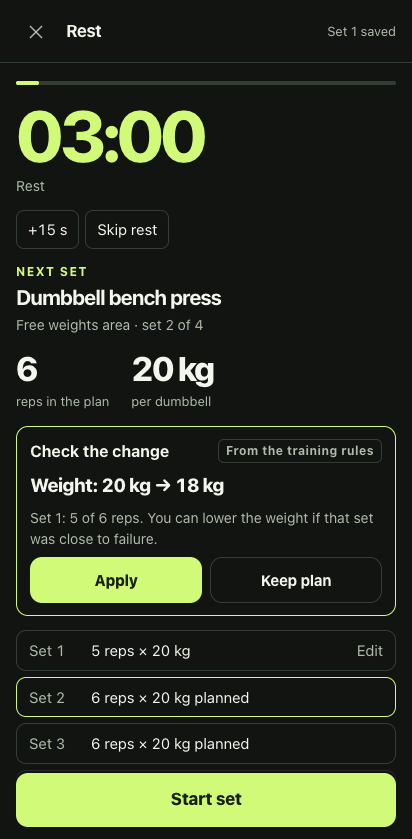
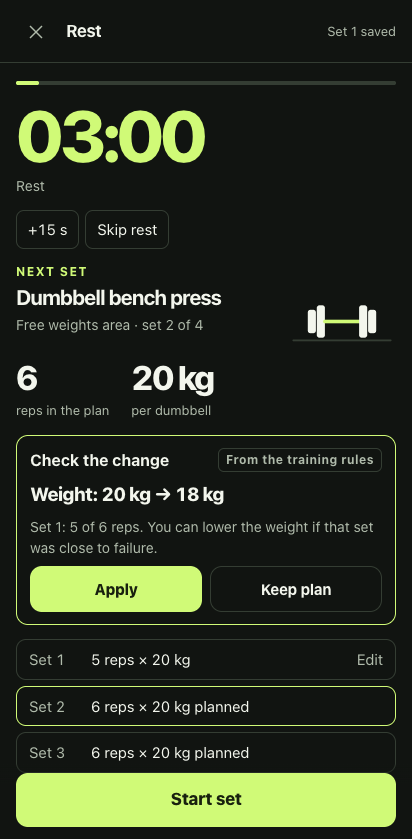
Keep the equipment sketch on the training screen at every step
It showed only when a new exercise first came up. It now sits beside the
exercise name before a set, during it, while the result is entered and
during the rest. The line saying what it shows stays with the first set.

diff --git a/report/report.html b/report/report.html
@@ -67,7 +67,7 @@ ol.steps { padding-left: 20px; display: flex; flex-direction: column; gap: 8px; 
     <h1>Seria<i>.</i> is built and tested</h1>
     <p class="lead">The design file is now a working app in English. It builds a training plan from a conversation, guides each set with a rest timer, keeps a history, and keeps the plan up to date as you train. It runs in the phone's browser and goes on the home screen. No developer mode, no app to install by hand. Both ways of running it are live.</p>
     <div class="nums">
-      <div><strong>180 / 180</strong><span>end-to-end checks passed</span></div>
+      <div><strong>184 / 184</strong><span>end-to-end checks passed</span></div>
       <div><strong>39 / 39</strong><span>unit tests passed</span></div>
       <div><strong>16 / 16</strong><span>checks passed on the live site</span></div>
       <div><strong>15 / 16</strong><span>spec items fully done</span></div>
@@ -184,10 +184,10 @@ ol.steps { padding-left: 20px; display: flex; flex-direction: column; gap: 8px; 
 
   <section>
     <p class="eyebrow">Smoke test</p>
-    <h2>180 of 180 end-to-end checks pass</h2>
-    <p class="muted">Run with <code>npm run smoke</code>. Real app, real Chrome (headless), phone-sized screen, no network and no real API key. Last run 2026-11-15 11:58 UTC.</p>
-    <div class="bar" role="img" aria-label="180 of 180 checks passed"><i style="width:100%"></i></div>
-    <details><summary>No Claude: 73 of 73</summary><p class="muted" style="margin-top:8px;font-size:14px">The built-in coach, the rule-based plan, a full workout with a reload in the middle, history, backup and restore.</p><ul><li><span class="tick">✓</span> opens on the empty plan</li><li><span class="tick">✓</span> main navigation is Plan, Coach, History, Equipment</li><li><span class="tick">✓</span> opening the coach saves nothing by itself</li><li><span class="tick">✓</span> coach status says Claude is not connected</li><li><span class="tick">✓</span> coach asks for what is missing (things to skip), and not for fixed days</li><li><span class="tick">✓</span> assumptions shown before the plan is built</li><li><span class="tick">✓</span> no plan exists until the user confirms</li><li><span class="tick">✓</span> the plan is a list of sessions with rest days, not tied to weekdays</li><li><span class="tick">✓</span> the coach presents it as a proposal you can discuss</li><li><span class="tick">✓</span> the plan reads as train, rest, train</li><li><span class="tick">✓</span> no cycles, weeks or weekdays to manage</li><li><span class="tick">✓</span> every session fits the 50 minute budget</li><li><span class="tick">✓</span> skipped lifts are left out</li><li><span class="tick">✓</span> plan records the rules version</li><li><span class="tick">✓</span> plan shows weekly sets per muscle group against the target</li><li><span class="tick">✓</span> each session on the list shows what it is, when it falls and how long it takes</li><li><span class="tick">✓</span> free text about the gym is read and saved in one go</li><li><span class="tick">✓</span> the result says what was added, turned off and not placed</li><li><span class="tick">✓</span> the text box is cleared once saved</li><li><span class="tick">✓</span> with no model connected, a named maker is noted on its machines</li><li><span class="tick">✓</span> added machines are listed as available</li><li><span class="tick">✓</span> free weights, bench and pull-up bar need no entry (on by default)</li><li><span class="tick">✓</span> equipment rows carry a sketch each</li><li><span class="tick">✓</span> lost equipment gives a swap with old value, new value and reason</li><li><span class="tick">✓</span> "Keep plan" leaves the plan alone</li><li><span class="tick">✓</span> day preview: order, equipment, sets, reps, rest, how to pick the weight, time parts</li><li><span class="tick">✓</span> each exercise in the preview has a sketch of its equipment</li><li><span class="tick">✓</span> workout has its own screen without the tab bar</li><li><span class="tick">✓</span> a new exercise starts with a sketch of what to look for</li><li><span class="tick">✓</span> no history: asks for a starting weight first</li><li><span class="tick">✓</span> starting weight is saved and shown per dumbbell</li><li><span class="tick">✓</span> "Start set" shows the active set</li><li><span class="tick">✓</span> "Finish set" opens the result with the planned value</li><li><span class="tick">✓</span> reps correct by ±1 and ±2</li><li><span class="tick">✓</span> reps can be typed directly</li><li><span class="tick">✓</span> saving starts the rest countdown at once</li><li><span class="tick">✓</span> countdown starts from the planned rest</li><li><span class="tick">✓</span> rule-based suggestion: change, reason, Apply / Keep plan</li><li><span class="tick">✓</span> reload restores the workout, the saved set and the time left</li><li><span class="tick">✓</span> +15 s extends the rest</li><li><span class="tick">✓</span> applying the suggestion changes only the sets still to come</li><li><span class="tick">✓</span> "Skip rest" goes straight to the next set</li><li><span class="tick">✓</span> weight can be changed in the result</li><li><span class="tick">✓</span> reps in reserve is optional and saved when given</li><li><span class="tick">✓</span> a wrong entry can be corrected during the workout</li><li><span class="tick">✓</span> after the last set the screen shows the next exercise</li><li><span class="tick">✓</span> a busy station can be swapped for another exercise on available equipment</li><li><span class="tick">✓</span> a set can be skipped</li><li><span class="tick">✓</span> summary: time, sets done of total, skipped sets, biggest differences</li><li><span class="tick">✓</span> session is stored set by set with plan and result</li><li><span class="tick">✓</span> weights chosen in the session are written into the plan</li><li><span class="tick">✓</span> after the session: proposals with change, reason and a choice</li><li><span class="tick">✓</span> "Apply" updates the plan and bumps its version</li><li><span class="tick">✓</span> the stored session keeps the plan it was done against</li><li><span class="tick">✓</span> history lists the workout</li><li><span class="tick">✓</span> a saved set can be corrected later from history</li><li><span class="tick">✓</span> the finished session is off the list; the next one is planned after the rest day</li><li><span class="tick">✓</span> "Train now" on an unplanned day shows what makes sense and why, before anything starts</li><li><span class="tick">✓</span> and how the rest of the plan follows</li><li><span class="tick">✓</span> any other session can be picked instead</li><li><span class="tick">✓</span> on the planned day the plan says "today"</li><li><span class="tick">✓</span> and "Train now" simply starts the next session</li><li><span class="tick">✓</span> a discarded workout leaves the plan as it was</li><li><span class="tick">✓</span> a session can be skipped; it leaves the list and waits for the next run</li><li><span class="tick">✓</span> and brought back</li><li><span class="tick">✓</span> after a long break the plan says so and offers a lighter session</li><li><span class="tick">✓</span> a hand-picked session starts, lighter today, and goes to the front of the plan</li><li><span class="tick">✓</span> session preview shows the recorded weight</li><li><span class="tick">✓</span> backup file holds plan and history and no API key</li><li><span class="tick">✓</span> erase clears plan and history</li><li><span class="tick">✓</span> restore brings them back</li><li><span class="tick">✓</span> rules library is readable in the app, with sources</li><li><span class="tick">✓</span> no script errors in part A</li></ul></details>
+    <h2>184 of 184 end-to-end checks pass</h2>
+    <p class="muted">Run with <code>npm run smoke</code>. Real app, real Chrome (headless), phone-sized screen, no network and no real API key. Last run 2026-11-15 12:16 UTC.</p>
+    <div class="bar" role="img" aria-label="184 of 184 checks passed"><i style="width:100%"></i></div>
+    <details><summary>No Claude: 77 of 77</summary><p class="muted" style="margin-top:8px;font-size:14px">The built-in coach, the rule-based plan, a full workout with a reload in the middle, history, backup and restore.</p><ul><li><span class="tick">✓</span> opens on the empty plan</li><li><span class="tick">✓</span> main navigation is Plan, Coach, History, Equipment</li><li><span class="tick">✓</span> opening the coach saves nothing by itself</li><li><span class="tick">✓</span> coach status says Claude is not connected</li><li><span class="tick">✓</span> coach asks for what is missing (things to skip), and not for fixed days</li><li><span class="tick">✓</span> assumptions shown before the plan is built</li><li><span class="tick">✓</span> no plan exists until the user confirms</li><li><span class="tick">✓</span> the plan is a list of sessions with rest days, not tied to weekdays</li><li><span class="tick">✓</span> the coach presents it as a proposal you can discuss</li><li><span class="tick">✓</span> the plan reads as train, rest, train</li><li><span class="tick">✓</span> no cycles, weeks or weekdays to manage</li><li><span class="tick">✓</span> every session fits the 50 minute budget</li><li><span class="tick">✓</span> skipped lifts are left out</li><li><span class="tick">✓</span> plan records the rules version</li><li><span class="tick">✓</span> plan shows weekly sets per muscle group against the target</li><li><span class="tick">✓</span> each session on the list shows what it is, when it falls and how long it takes</li><li><span class="tick">✓</span> free text about the gym is read and saved in one go</li><li><span class="tick">✓</span> the result says what was added, turned off and not placed</li><li><span class="tick">✓</span> the text box is cleared once saved</li><li><span class="tick">✓</span> with no model connected, a named maker is noted on its machines</li><li><span class="tick">✓</span> added machines are listed as available</li><li><span class="tick">✓</span> free weights, bench and pull-up bar need no entry (on by default)</li><li><span class="tick">✓</span> equipment rows carry a sketch each</li><li><span class="tick">✓</span> lost equipment gives a swap with old value, new value and reason</li><li><span class="tick">✓</span> "Keep plan" leaves the plan alone</li><li><span class="tick">✓</span> day preview: order, equipment, sets, reps, rest, how to pick the weight, time parts</li><li><span class="tick">✓</span> each exercise in the preview has a sketch of its equipment</li><li><span class="tick">✓</span> workout has its own screen without the tab bar</li><li><span class="tick">✓</span> a new exercise starts with a sketch of what to look for</li><li><span class="tick">✓</span> no history: asks for a starting weight first</li><li><span class="tick">✓</span> starting weight is saved and shown per dumbbell</li><li><span class="tick">✓</span> "Start set" shows the active set</li><li><span class="tick">✓</span> the sketch stays on the training screen during the set</li><li><span class="tick">✓</span> "Finish set" opens the result with the planned value</li><li><span class="tick">✓</span> and while the result is entered</li><li><span class="tick">✓</span> reps correct by ±1 and ±2</li><li><span class="tick">✓</span> reps can be typed directly</li><li><span class="tick">✓</span> saving starts the rest countdown at once</li><li><span class="tick">✓</span> and during the rest</li><li><span class="tick">✓</span> countdown starts from the planned rest</li><li><span class="tick">✓</span> rule-based suggestion: change, reason, Apply / Keep plan</li><li><span class="tick">✓</span> reload restores the workout, the saved set and the time left</li><li><span class="tick">✓</span> +15 s extends the rest</li><li><span class="tick">✓</span> applying the suggestion changes only the sets still to come</li><li><span class="tick">✓</span> "Skip rest" goes straight to the next set</li><li><span class="tick">✓</span> weight can be changed in the result</li><li><span class="tick">✓</span> reps in reserve is optional and saved when given</li><li><span class="tick">✓</span> a wrong entry can be corrected during the workout</li><li><span class="tick">✓</span> the next exercise comes with its own sketch</li><li><span class="tick">✓</span> after the last set the screen shows the next exercise</li><li><span class="tick">✓</span> a busy station can be swapped for another exercise on available equipment</li><li><span class="tick">✓</span> a set can be skipped</li><li><span class="tick">✓</span> summary: time, sets done of total, skipped sets, biggest differences</li><li><span class="tick">✓</span> session is stored set by set with plan and result</li><li><span class="tick">✓</span> weights chosen in the session are written into the plan</li><li><span class="tick">✓</span> after the session: proposals with change, reason and a choice</li><li><span class="tick">✓</span> "Apply" updates the plan and bumps its version</li><li><span class="tick">✓</span> the stored session keeps the plan it was done against</li><li><span class="tick">✓</span> history lists the workout</li><li><span class="tick">✓</span> a saved set can be corrected later from history</li><li><span class="tick">✓</span> the finished session is off the list; the next one is planned after the rest day</li><li><span class="tick">✓</span> "Train now" on an unplanned day shows what makes sense and why, before anything starts</li><li><span class="tick">✓</span> and how the rest of the plan follows</li><li><span class="tick">✓</span> any other session can be picked instead</li><li><span class="tick">✓</span> on the planned day the plan says "today"</li><li><span class="tick">✓</span> and "Train now" simply starts the next session</li><li><span class="tick">✓</span> a discarded workout leaves the plan as it was</li><li><span class="tick">✓</span> a session can be skipped; it leaves the list and waits for the next run</li><li><span class="tick">✓</span> and brought back</li><li><span class="tick">✓</span> after a long break the plan says so and offers a lighter session</li><li><span class="tick">✓</span> a hand-picked session starts, lighter today, and goes to the front of the plan</li><li><span class="tick">✓</span> session preview shows the recorded weight</li><li><span class="tick">✓</span> backup file holds plan and history and no API key</li><li><span class="tick">✓</span> erase clears plan and history</li><li><span class="tick">✓</span> restore brings them back</li><li><span class="tick">✓</span> rules library is readable in the app, with sources</li><li><span class="tick">✓</span> no script errors in part A</li></ul></details>
     <details><summary>Claude through the API: 49 of 49</summary><p class="muted" style="margin-top:8px;font-size:14px">The real Anthropic SDK in the browser, talking to a local stand-in for api.anthropic.com. Checks the request the app sends, late and failed answers, and a wrong key.</p><ul><li><span class="tick">✓</span> status shows Claude connected with the default model</li><li><span class="tick">✓</span> "Test the connection" gets an answer</li><li><span class="tick">✓</span> request: key, browser-access and version headers, as the official SDK sends them</li><li><span class="tick">✓</span> request: model, structured output, effort, cached system prompt</li><li><span class="tick">✓</span> request: refusal fallback is switched on</li><li><span class="tick">✓</span> request: no thinking or sampling parameters the model would reject</li><li><span class="tick">✓</span> request: system prompt carries the rules library and its version</li><li><span class="tick">✓</span> the key is kept apart from the app data</li><li><span class="tick">✓</span> an answer cut off for lack of room is asked for once more with twice as much</li><li><span class="tick">✓</span> a 429 from Claude is shown in Claude's own words</li><li><span class="tick">✓</span> Claude fills the profile; unknown exercise ids are dropped</li><li><span class="tick">✓</span> the reply is marked as coming from Claude</li><li><span class="tick">✓</span> plan built by Claude, cleaned against the catalog</li><li><span class="tick">✓</span> plan screen says who built it</li><li><span class="tick">✓</span> gym text goes to Claude with the equipment catalog</li><li><span class="tick">✓</span> Claude's reading is saved; made-up ids and movements are dropped</li><li><span class="tick">✓</span> the result is marked as read by Claude and lists what it could not place</li><li><span class="tick">✓</span> named machines are looked up with Claude's web search, and a paused search is carried on</li><li><span class="tick">✓</span> a machine found on the web is saved with how it works, what it isolates and its source</li><li><span class="tick">✓</span> a source address the search never returned is not accepted; that machine stays "from memory"</li><li><span class="tick">✓</span> nothing is saved for machines nobody named</li><li><span class="tick">✓</span> the result says which machines were identified and how sure that is</li><li><span class="tick">✓</span> the equipment list shows the exact machine and links to its page</li><li><span class="tick">✓</span> if the web search fails the machines are still saved, marked as not checked</li><li><span class="tick">✓</span> saving does not wait for Claude</li><li><span class="tick">✓</span> the rule-based suggestion is there first</li><li><span class="tick">✓</span> Claude's suggestion replaces it when it arrives in time</li><li><span class="tick">✓</span> "Keep plan" drops the suggestion</li><li><span class="tick">✓</span> a late suggestion about finished sets is not shown</li><li><span class="tick">✓</span> an on-target set does not call Claude</li><li><span class="tick">✓</span> the coach is told how each identified machine works and what it isolates</li><li><span class="tick">✓</span> with Claude failing, the workout carries on by the rules</li><li><span class="tick">✓</span> after the session Claude's review is shown with the app's own old value</li><li><span class="tick">✓</span> after a workout the order and rest days of what is left are updated without asking</li><li><span class="tick">✓</span> while the weight change still waits for a yes</li><li><span class="tick">✓</span> off the planned day, the rule-based pick shows at once</li><li><span class="tick">✓</span> Claude reviews what makes sense today, with the history and the app's pick in hand</li><li><span class="tick">✓</span> Claude's pick replaces it, with its reason</li><li><span class="tick">✓</span> the rule-based pick stays one tap away</li><li><span class="tick">✓</span> starting accepts Claude's update: its order and rest days, minus the session it made up</li><li><span class="tick">✓</span> a change Claude wants further on is filed as a proposal, not applied</li><li><span class="tick">✓</span> when the last session is done, Claude is asked for the next run with the results so far</li><li><span class="tick">✓</span> the next run replaces the list and the plan carries on</li><li><span class="tick">✓</span> and is on the plan screen, ready to browse</li><li><span class="tick">✓</span> asking the coach for a change gives a proposal to apply or keep</li><li><span class="tick">✓</span> applied from the chat</li><li><span class="tick">✓</span> a failing key gives a plain message and the built-in coach answers</li><li><span class="tick">✓</span> gym text still gets saved when Claude fails</li><li><span class="tick">✓</span> no script errors in part B</li></ul></details>
     <details><summary>Inside claude.ai: 14 of 14</summary><p class="muted" style="margin-top:8px;font-size:14px">A stand-in for the runtime claude.ai gives the page: cloud records, Claude, dictation. Includes moving to a fresh browser and getting everything back.</p><ul><li><span class="tick">✓</span> inside claude.ai: Claude is connected with no key</li><li><span class="tick">✓</span> inside claude.ai: data status says cloud</li><li><span class="tick">✓</span> voice lands in the text field, after what was typed</li><li><span class="tick">✓</span> the transcript can be edited before sending</li><li><span class="tick">✓</span> the viewer's Claude was used, uncached</li><li><span class="tick">✓</span> inside claude.ai machines are identified from memory and marked as not checked</li><li><span class="tick">✓</span> cloud copy: one private main record plus one record per workout</li><li><span class="tick">✓</span> machine details are part of the cloud copy</li><li><span class="tick">✓</span> cloud copy holds the plan and the saved set</li><li><span class="tick">✓</span> a fresh browser waits for the cloud copy before showing the app</li><li><span class="tick">✓</span> a fresh browser gets plan and workout back from the cloud</li><li><span class="tick">✓</span> and can carry on the same workout</li><li><span class="tick">✓</span> backup goes through the viewer save dialog</li><li><span class="tick">✓</span> no script errors in part C</li></ul></details>
     <details><summary>Home screen and offline: 10 of 10</summary><p class="muted" style="margin-top:8px;font-size:14px">The install files, the icons, and starting the app with the network switched off.</p><ul><li><span class="tick">✓</span> manifest: standalone display, name, start URL</li><li><span class="tick">✓</span> manifest: 192 and 512 icons plus a maskable one</li><li><span class="tick">✓</span> icons load at the declared sizes</li><li><span class="tick">✓</span> viewport and theme colour set for phones</li><li><span class="tick">✓</span> assumptions table: the label column stays under 40% of the width</li><li><span class="tick">✓</span> offline: the app starts and builds a plan with no network</li><li><span class="tick">✓</span> a plan saved by the earlier version is carried over: same sessions, now a list with rest days</li><li><span class="tick">✓</span> and it trains straight away</li><li><span class="tick">✓</span> no sideways scroll at phone width</li><li><span class="tick">✓</span> no script errors in part D</li></ul></details>

diff --git a/js/ui/workout.js b/js/ui/workout.js
@@ -9,7 +9,7 @@ import { fmtLoad, fmtLoadShort, num } from '../domain/planner.js';
 import { LOAD_TYPES, PROGRESSION } from '../domain/rules.js';
 import { substitutesFor, exerciseById, equipmentNames, zoneOf, machineForExercise, sketchForExercise } from '../domain/catalog.js';
 import { MachineInfo } from './equipment.js';
-import { Sketch, SketchFigure } from './sketch.js';
+import { Sketch, sketchNote } from './sketch.js';
 import { describeChange } from '../domain/progression.js';
 import { afterSetSaved, afterWorkout, rememberWeight } from '../ai/coach.js';
 import { sourceName } from '../ai/ai.js';
@@ -195,15 +195,19 @@ export function Workout() {
           <button class="chip" onClick=${() => put(S.skipRest(session))}>Skip rest</button>
         </div>`}
 
-      <div class="stack tight">
-        ${waiting && html`<p class="eyebrow">${firstOfExercise ? (c.done + c.skipped === 0 ? 'First exercise' : 'Next exercise') : 'Next set'}</p>`}
-        ${phase === 'log' && html`<p class="eyebrow">Set result</p>`}
-        ${phase === 'active' && html`<p class="eyebrow">Set in progress · ${clock(setElapsed)}</p>`}
-        <h3 data-testid="exercise-name">${ex.name}</h3>
-        <p class="muted small">${ex.zone} · set ${setIdx + 1} of ${ex.sets.length}${ex.swappedFrom ? ` · swapped in for ${ex.swappedFrom.name}` : ''}</p>
-        ${waiting && session.easePct > 0 && c.done + c.skipped === 0 && html`<p class="small muted" data-testid="eased">Loads are ${session.easePct}% lighter today to ease back in. The plan keeps its numbers.</p>`}
-        ${waiting && firstOfExercise && html`<p class="muted small">${ex.equipment} · ${ex.sets.length} sets · rest ${restText(ex.restSec)}</p>`}
+      <div class="spread" style="align-items:flex-start">
+        <div class="stack tight grow">
+          ${waiting && html`<p class="eyebrow">${firstOfExercise ? (c.done + c.skipped === 0 ? 'First exercise' : 'Next exercise') : 'Next set'}</p>`}
+          ${phase === 'log' && html`<p class="eyebrow">Set result</p>`}
+          ${phase === 'active' && html`<p class="eyebrow">Set in progress · ${clock(setElapsed)}</p>`}
+          <h3 data-testid="exercise-name">${ex.name}</h3>
+          <p class="muted small">${ex.zone} · set ${setIdx + 1} of ${ex.sets.length}${ex.swappedFrom ? ` · swapped in for ${ex.swappedFrom.name}` : ''}</p>
+          ${waiting && session.easePct > 0 && c.done + c.skipped === 0 && html`<p class="small muted" data-testid="eased">Loads are ${session.easePct}% lighter today to ease back in. The plan keeps its numbers.</p>`}
+          ${waiting && firstOfExercise && html`<p class="muted small">${ex.equipment} · ${ex.sets.length} sets · rest ${restText(ex.restSec)}</p>`}
+        </div>
+        ${look && html`<div data-testid="sketch"><${Sketch} medium id=${look.id} loading=${look.loading} /></div>`}
       </div>
+      ${waiting && firstOfExercise && look && html`<p class="small muted" data-testid="sketch-note">${sketchNote(look)}</p>`}
 
       ${phase !== 'log' && !(waiting && needW) && html`
         <div class="metrics">
@@ -212,7 +216,6 @@ export function Workout() {
             <small>${ex.loadType === 'bodyweight' ? (set.target.load ? 'added to bodyweight' : 'bodyweight') : LOAD_TYPES[ex.loadType].label}</small></div>
         </div>`}
 
-      ${waiting && firstOfExercise && html`<${SketchFigure} look=${look} />`}
       ${(waiting || phase === 'active') && machine && (machine.how || machine.isolates) && html`<${MachineInfo} d=${machine} />`}
 
       ${waiting && needW && html`<${WeightPicker} ex=${ex} reps=${set.target.reps} machine=${machine} value=${picked.value} step=${picked.step}

diff --git a/js/ui/sketch.js b/js/ui/sketch.js
@@ -124,26 +124,22 @@ function part(p, plates) {
 }
 
 /**
- * @param {{id: string, loading?: string, small?: boolean}} props id: a key of SKETCHES
+ * @param {{id: string, loading?: string, small?: boolean, medium?: boolean}} props id: a key of SKETCHES
  */
-export function Sketch({ id, loading, small }) {
+export function Sketch({ id, loading, small, medium }) {
   const sk = SKETCHES[id];
   if (!sk) return null;
   const plates = loading === 'plate_loaded';
   // A small one sits next to the name it illustrates, so it is decoration there; a big one stands alone and is labelled.
-  return html`<svg class=${`sketch${small ? ' small' : ''}`} viewBox="0 0 120 90" role=${small ? undefined : 'img'} aria-hidden=${small ? 'true' : undefined}
+  return html`<svg class=${`sketch${small ? ' small' : medium ? ' medium' : ''}`} viewBox="0 0 120 90" role=${small ? undefined : 'img'} aria-hidden=${small ? 'true' : undefined}
     aria-label=${small ? undefined : `Sketch of a ${sk.name}`} data-sketch=${id}>
     <path class="sk-g" d="M6 86 H114" />
     ${sk.parts.map((p) => part(p, plates))}
   </svg>`;
 }
 
-/** The sketch with a line saying what it is, and that it is only the general look. */
-export function SketchFigure({ look }) {
-  if (!look || !SKETCHES[look.id]) return null;
-  const sk = SKETCHES[look.id];
-  return html`<figure class="sketch-fig" data-testid="sketch">
-    <${Sketch} id=${look.id} loading=${look.loading} />
-    <figcaption class="small muted">General look of a ${sk.name}${look.loading === 'plate_loaded' ? ', loaded with plates' : ''}. Yours may differ in detail.</figcaption>
-  </figure>`;
+/** One line saying what the sketch shows, and that it is only the general look. */
+export function sketchNote(look) {
+  const sk = look && SKETCHES[look.id];
+  return sk ? `General look of a ${sk.name}${look.loading === 'plate_loaded' ? ', loaded with plates' : ''}. Yours may differ in detail.` : '';
 }

diff --git a/css/app.css b/css/app.css
@@ -197,6 +197,7 @@ select.input { appearance: none; }
 /* ---------- machine sketches */
 .sketch { display: block; width: 100%; max-width: 190px; height: auto; flex: none; }
 .sketch.small { width: 68px; max-width: 68px; }
+.sketch.medium { width: 108px; max-width: 108px; }
 .sk-f { stroke: var(--muted); fill: none; stroke-width: 3; stroke-linecap: round; stroke-linejoin: round; }
 .sk-g { stroke: var(--line); stroke-width: 2; stroke-linecap: round; }
 .sk-c { stroke: var(--muted); fill: none; stroke-width: 1.3; stroke-linecap: round; }
@@ -204,9 +205,6 @@ select.input { appearance: none; }
 .sk-p { fill: var(--ink); }
 .sk-m { stroke: var(--accent); fill: none; stroke-width: 4; stroke-linecap: round; stroke-linejoin: round; }
 .sk-mp { fill: var(--accent); }
-.sketch-fig { margin: 0; display: flex; gap: 14px; align-items: center; border: 1px solid var(--line); border-radius: 12px; padding: 10px 13px; }
-.sketch-fig .sketch { max-width: 132px; }
-.sketch-fig figcaption { min-width: 0; }
 .rule { border-top: 1px solid var(--line); padding-top: 12px; }
 .rule code, code { font: inherit; font-size: 13px; color: var(--muted); }
 .cite { font-size: 14px; color: var(--muted); overflow-wrap: anywhere; }
